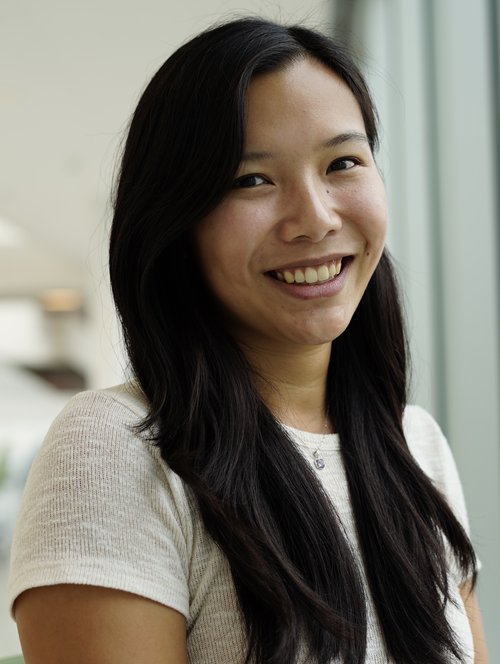
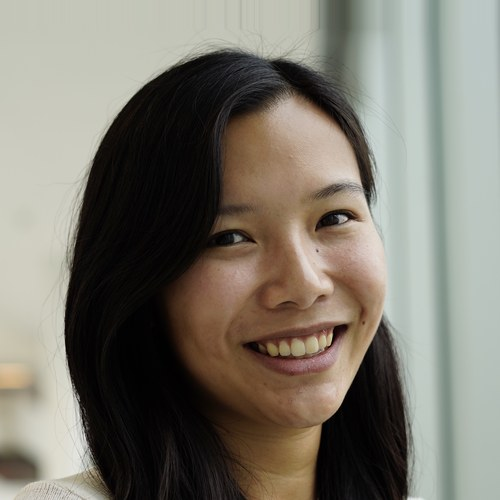
Widen the Alex and Chloe headshots; align header and footer with page content
Re-crop both photos so the face is centred and the whole head fits.
Hollis Akins is listed as an undergraduate summer student. The nav and
footer inner width was 1180px against the 1240px content wrap, so their
left edges sat 30px inside every page; match them to .wrap.

diff --git a/assets/site.css b/assets/site.css
@@ -58,7 +58,7 @@ body::after{
 /* ----- shared nav (includes/header.html) ----- */
 .site-nav{position:fixed;top:0;left:0;right:0;z-index:100;
   background:rgba(7,11,21,.94);border-bottom:1px solid var(--line)}
-.site-nav .nav-in{max-width:1180px;margin:0 auto;padding:13px 28px;display:flex;align-items:center;gap:22px}
+.site-nav .nav-in{max-width:1240px;margin:0 auto;padding:13px 28px;display:flex;align-items:center;gap:22px}
 .site-nav .brand{font-weight:700;font-size:1.02rem;letter-spacing:.02em;color:var(--ink);text-decoration:none;white-space:nowrap}
 .site-nav .brand span{color:var(--accent)}
 .site-nav .nav-links{display:flex;gap:20px;margin-left:auto;font-size:.88rem;align-items:center}
@@ -80,7 +80,7 @@ body::after{
   background:transparent;padding:44px 0 36px;margin-top:60px;text-align:left}
 .site-footer a{color:var(--muted);text-decoration:none}
 .site-footer a:hover{color:var(--accent)}
-.site-footer .foot-flex{max-width:1180px;margin:0 auto;padding:0 28px;
+.site-footer .foot-flex{max-width:1240px;margin:0 auto;padding:0 28px;
   display:flex;justify-content:space-between;gap:30px;flex-wrap:wrap}
 .site-footer b{color:var(--ink)}
 

diff --git a/pages/members.html b/pages/members.html
@@ -178,7 +178,7 @@
         <li><strong>Akiyoshi Tsujita</strong> <small>(2024&ndash;2025)</small><br>
           Visiting graduate student, University of Tokyo. <a href="https://ui.adsabs.harvard.edu/abs/2026ApJ...997..319T" target="_blank" rel="noopener">The ALPINE-CRISTAL-JWST Survey: Stellar and Nebular Dust Attenuation of Main-sequence Galaxies at z ~ 4&ndash;6</a>, ApJ 997, 319 (2026).</li>
         <li><strong>Hollis B. Akins</strong> <small>(2021&ndash;2022)</small><br>
-          Undergraduate student, Grinnell College. <a href="https://ui.adsabs.harvard.edu/abs/2022ApJ...934...64A" target="_blank" rel="noopener">ALMA Reveals Extended Cool Gas and Hot Ionized Outflows in a Typical Star-forming Galaxy at z = 7.13</a>, ApJ 934, 64 (2022).</li>
+          Undergraduate summer student, Grinnell College. <a href="https://ui.adsabs.harvard.edu/abs/2022ApJ...934...64A" target="_blank" rel="noopener">ALMA Reveals Extended Cool Gas and Hot Ionized Outflows in a Typical Star-forming Galaxy at z = 7.13</a>, ApJ 934, 64 (2022).</li>
       </ul>
 
     </div>
